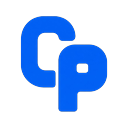
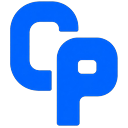
Update site

Changed region(s): [[0.0625, 0.0, 0.9375, 1.0], [0.5938, 0.4688, 0.7812, 0.5938]]

diff --git a/styles.css b/styles.css
@@ -112,6 +112,15 @@ img {
   }
 }
 
+@keyframes platforms-scroll {
+  0% {
+    transform: translateX(0);
+  }
+  100% {
+    transform: translateX(-50%);
+  }
+}
+
 .float-y {
   animation: float-y 5s ease-in-out infinite;
 }
@@ -158,8 +167,17 @@ img {
 }
 
 .brand-icon {
-  border-radius: 8px;
+  width: 44px;
+  height: 44px;
+  flex-shrink: 0;
+  display: block;
+  object-fit: contain;
   transition: transform 0.3s ease;
+}
+
+.site-footer .brand-icon {
+  width: 40px;
+  height: 40px;
 }
 
 .brand:hover .brand-icon {
@@ -378,84 +396,66 @@ img {
   color: rgba(255, 255, 255, 0.45);
 }
 
-.platforms-row {
+.platforms-marquee {
+  overflow: hidden;
+  width: 100%;
+  mask-image: linear-gradient(90deg, transparent, #000 6%, #000 94%, transparent);
+}
+
+.platforms-track {
   display: flex;
-  flex-wrap: wrap;
-  justify-content: center;
   align-items: center;
-  gap: clamp(28px, 5vw, 64px);
+  gap: clamp(32px, 5vw, 72px);
+  width: max-content;
   list-style: none;
   margin: 0;
-  padding: 0 5vw;
-  max-width: 1100px;
-  margin-inline: auto;
+  padding: 0;
+  animation: platforms-scroll 32s linear infinite;
+  will-change: transform;
 }
 
-.platforms-row li {
+.platforms-marquee:hover .platforms-track {
+  animation-play-state: paused;
+}
+
+.platforms-track li {
   display: flex;
   align-items: center;
   justify-content: center;
+  flex: 0 0 auto;
+  width: 120px;
+  height: 40px;
 }
 
-.platforms-row img {
-  width: auto;
-  height: auto;
-  max-height: 32px;
-  object-fit: contain;
-  opacity: 0.95;
-  transition:
-    opacity 0.3s ease,
-    transform 0.35s cubic-bezier(0.22, 1, 0.36, 1);
-}
-
-.platforms-row img:hover {
-  opacity: 1;
-  transform: scale(1.06);
-}
-
-.platforms-row .logo-disney {
-  max-height: 36px;
-}
-
-.platforms-row .logo-youtube {
-  max-height: 28px;
-}
-
-.platforms-row .logo-hbo {
-  max-height: 26px;
-}
-
-.platforms-row .logo-hulu {
-  max-height: 24px;
-}
-
-.platforms-row .logo-amazon {
-  max-height: 30px;
-}
-
-.platforms-row .logo-netflix {
-  max-height: 28px;
-}
-
-/* Showcase banner */
-.showcase-banner {
-  padding: 0;
-  background: linear-gradient(180deg, #fff 0%, #eef3ff 100%);
-  overflow: hidden;
-}
-
-.showcase-banner-img {
+.platforms-track img {
+  display: block;
   width: 100%;
-  max-height: 520px;
-  object-fit: cover;
-  object-position: center top;
+  height: 36px;
+  max-width: 120px;
+  object-fit: contain;
+  object-position: center;
   opacity: 0.95;
-  transform: scale(1.01);
-  transition: transform 0.8s ease;
 }
 
-.showcase-banner:hover .showcase-banner-img {
-  transform: scale(1.03);
+@media (prefers-reduced-motion: reduce) {
+  .platforms-track {
+    animation: none;
+    flex-wrap: wrap;
+    justify-content: center;
+    width: 100%;
+    max-width: 1280px;
+    margin-inline: auto;
+    padding: 0 4vw;
+    gap: clamp(16px, 3vw, 40px);
+  }
+
+  .platforms-marquee {
+    mask-image: none;
+  }
+
+  .platforms-track li[aria-hidden="true"] {
+    display: none;
+  }
 }
 
 /* Features */
@@ -475,9 +475,13 @@ img {
   max-width: var(--max);
   margin: 0 auto;
   display: grid;
-  grid-template-columns: 1fr 1fr;
+  grid-template-columns: 0.95fr 1.05fr;
   gap: 48px;
   align-items: center;
+}
+
+#features .feature-inner {
+  gap: 40px 56px;
 }
 
 .feature-inner.reverse .feature-copy {
@@ -527,32 +531,29 @@ img {
   align-items: center;
 }
 
-.shows-video-ring {
-  width: min(440px, 88vw);
-  aspect-ratio: 1;
-  border-radius: 50%;
+.shows-video-frame {
+  width: 100%;
+  max-width: min(720px, 100%);
+  margin: 0 auto;
+  border-radius: 16px;
   overflow: hidden;
-  background: linear-gradient(145deg, #eef2f8 0%, #f8fafc 55%, #e8edf5 100%);
-  box-shadow:
-    0 24px 56px rgba(15, 23, 42, 0.1),
-    inset 0 0 0 1px rgba(47, 102, 255, 0.08);
-  position: relative;
-}
-
-.shows-video-ring::after {
-  content: "";
-  position: absolute;
-  inset: 0;
-  border-radius: 50%;
-  box-shadow: inset 0 0 0 1px rgba(255, 255, 255, 0.6);
-  pointer-events: none;
+  background: #fff;
+  box-shadow: 0 20px 56px rgba(15, 23, 42, 0.12);
 }
 
 .shows-video {
   width: 100%;
-  height: 100%;
-  object-fit: cover;
+  height: auto;
+  min-height: 280px;
   display: block;
+  object-fit: contain;
+  background: #fff;
+}
+
+@media (min-width: 900px) {
+  .shows-video {
+    min-height: 340px;
+  }
 }
 
 /* Steps band */
@@ -1049,9 +1050,5 @@ img {
 
   .faq-grid {
     grid-template-columns: 1fr;
-  }
-
-  .showcase-banner-img {
-    max-height: 280px;
   }
 }

diff --git a/index.html b/index.html
@@ -8,7 +8,10 @@
       name="description"
       content="Watch movies and shows together. Synced playback, invite links, Discord chat. Up to 4 friends."
     />
-    <link rel="icon" href="assets/icon128.png" />
+    <link rel="icon" href="assets/favicon.ico?v=4" sizes="any" />
+    <link rel="icon" type="image/png" sizes="32x32" href="assets/favicon-32.png?v=4" />
+    <link rel="icon" type="image/png" sizes="48x48" href="assets/favicon-48.png?v=4" />
+    <link rel="apple-touch-icon" href="assets/favicon-48.png" />
     <link rel="preconnect" href="https://fonts.googleapis.com" />
     <link rel="preconnect" href="https://fonts.gstatic.com" crossorigin />
     <link
@@ -22,7 +25,7 @@
 
     <header class="site-header" id="header">
       <a class="brand" href="#">
-        <img src="assets/icon128.png" alt="" class="brand-icon" width="36" height="36" />
+        <img src="assets/brand-cp-48.png" alt="" class="brand-icon" width="44" height="44" />
         <span class="brand-name">CineCoop</span>
       </a>
       <nav class="nav" aria-label="Main navigation">
@@ -70,23 +73,22 @@
 
       <section class="platforms reveal" data-reveal aria-label="Supported platforms">
         <p class="platforms-label">Host a watch party on</p>
-        <ul class="platforms-row">
-          <li><img src="assets/logos/brand/disney.png" alt="Disney+" class="logo-disney" width="120" height="40" /></li>
-          <li><img src="assets/logos/brand/hulu.png" alt="Hulu" class="logo-hulu" width="72" height="28" /></li>
-          <li><img src="assets/logos/brand/hbo.png" alt="HBO" class="logo-hbo" width="72" height="28" /></li>
-          <li><img src="assets/logos/brand/amazon.png" alt="Amazon Prime Video" class="logo-amazon" width="110" height="34" /></li>
-          <li><img src="assets/logos/brand/youtube.png" alt="YouTube" class="logo-youtube" width="130" height="30" /></li>
-          <li><img src="assets/logos/brand/netflix.png" alt="Netflix" class="logo-netflix" width="110" height="30" /></li>
-        </ul>
-      </section>
-
-      <section class="showcase-banner reveal" data-reveal>
-        <img
-          src="assets/promo/hero-watch-together.png"
-          alt="CineCoop interface with synchronized chat"
-          class="showcase-banner-img"
-          loading="lazy"
-        />
+        <div class="platforms-marquee">
+          <ul class="platforms-track">
+            <li><img src="assets/logos/brand/netflix.png" alt="Netflix" /></li>
+            <li><img src="assets/logos/brand/disney.png" alt="Disney+" /></li>
+            <li><img src="assets/logos/brand/hulu.png" alt="Hulu" /></li>
+            <li><img src="assets/logos/brand/hbo.png" alt="HBO" /></li>
+            <li><img src="assets/logos/brand/amazon.png" alt="Amazon Prime Video" /></li>
+            <li><img src="assets/logos/brand/youtube.png" alt="YouTube" /></li>
+            <li aria-hidden="true"><img src="assets/logos/brand/netflix.png" alt="" /></li>
+            <li aria-hidden="true"><img src="assets/logos/brand/disney.png" alt="" /></li>
+            <li aria-hidden="true"><img src="assets/logos/brand/hulu.png" alt="" /></li>
+            <li aria-hidden="true"><img src="assets/logos/brand/hbo.png" alt="" /></li>
+            <li aria-hidden="true"><img src="assets/logos/brand/amazon.png" alt="" /></li>
+            <li aria-hidden="true"><img src="assets/logos/brand/youtube.png" alt="" /></li>
+          </ul>
+        </div>
       </section>
 
       <section class="feature-block light" id="features">
@@ -100,7 +102,7 @@
             </p>
           </div>
           <div class="feature-visual reveal" data-reveal>
-            <div class="shows-video-ring float-y-slow" aria-hidden="true">
+            <div class="shows-video-frame">
               <video
                 class="shows-video"
                 src="assets/landingpage_shows.mp4"
@@ -109,6 +111,7 @@
                 loop
                 playsinline
                 preload="auto"
+                aria-label="Shows and movies on streaming platforms"
               ></video>
             </div>
           </div>
@@ -266,7 +269,7 @@
       <div class="footer-grid">
         <div>
           <a class="brand footer-brand" href="#">
-            <img src="assets/icon128.png" alt="" width="32" height="32" />
+            <img src="assets/brand-cp-48.png" alt="" class="brand-icon" width="40" height="40" />
             <span>CineCoop</span>
           </a>
         </div>

diff --git a/privacy.html b/privacy.html
@@ -4,7 +4,8 @@
     <meta charset="UTF-8" />
     <meta name="viewport" content="width=device-width, initial-scale=1.0" />
     <title>Privacy — CineCoop</title>
-    <link rel="icon" href="assets/icon128.png" />
+    <link rel="icon" href="assets/favicon.ico?v=4" sizes="any" />
+    <link rel="icon" type="image/png" sizes="32x32" href="assets/favicon-32.png?v=4" />
     <link rel="stylesheet" href="styles.css" />
     <style>
       .legal {
@@ -25,7 +26,7 @@
   <body>
     <header class="site-header">
       <a class="brand" href="index.html">
-        <img src="assets/icon128.png" alt="" width="36" height="36" />
+        <img src="assets/brand-cp-48.png" alt="" class="brand-icon" width="44" height="44" />
         <span>CineCoop</span>
       </a>
     </header>
